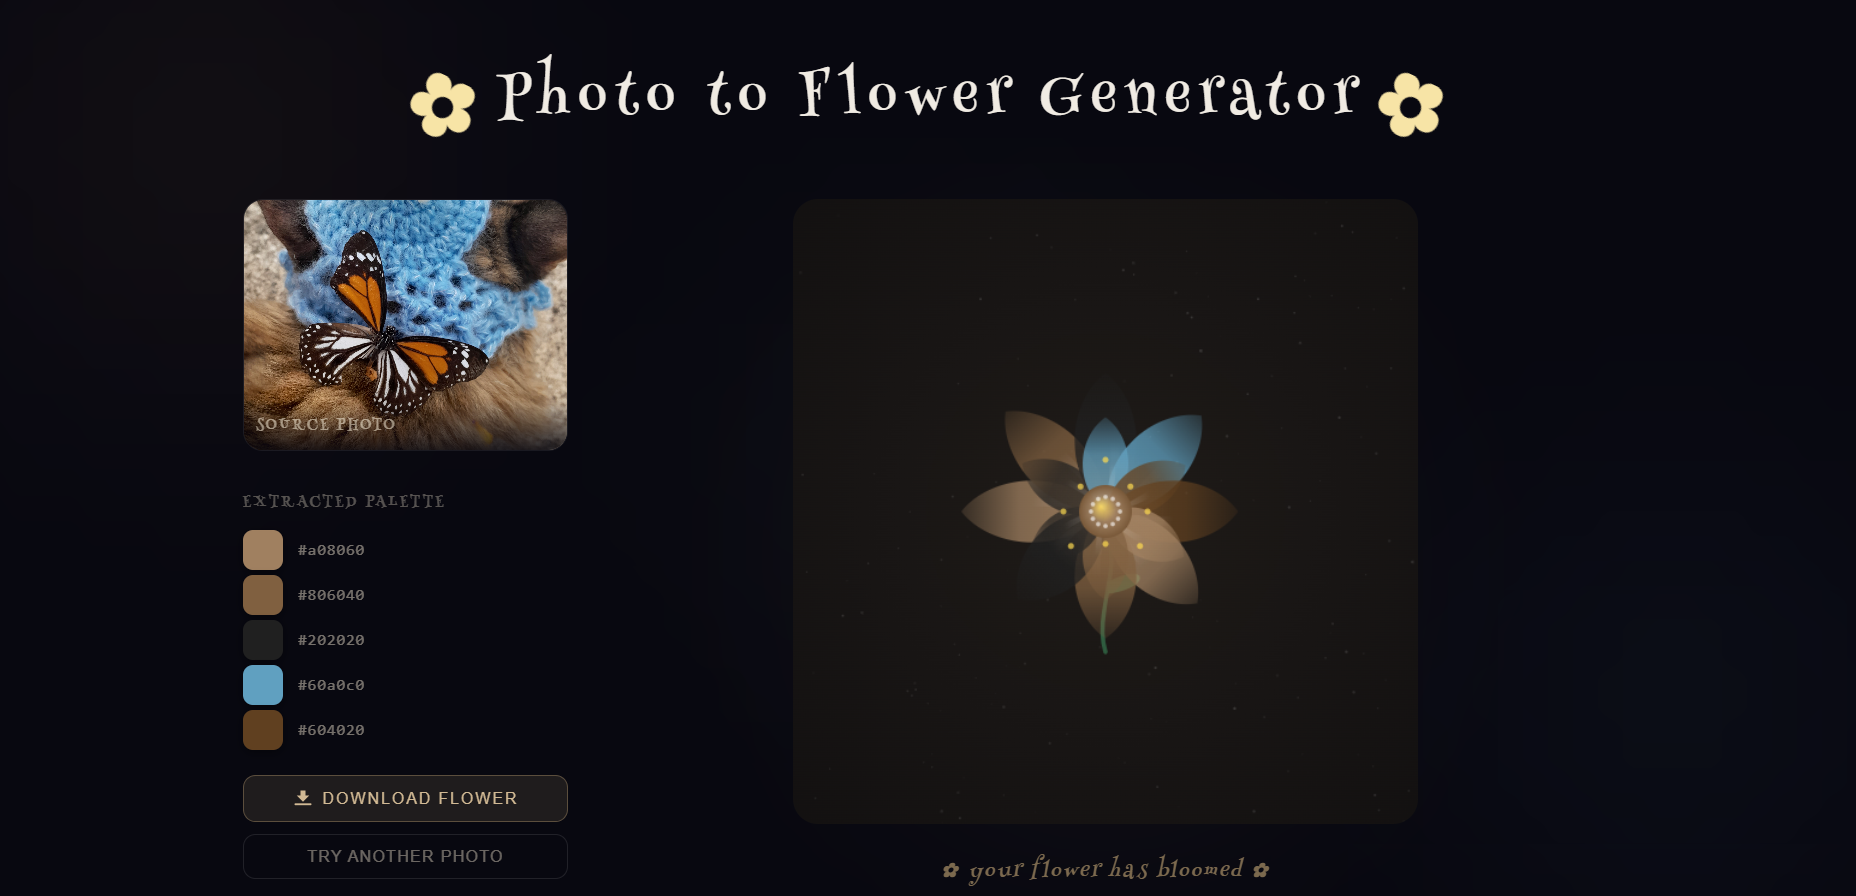
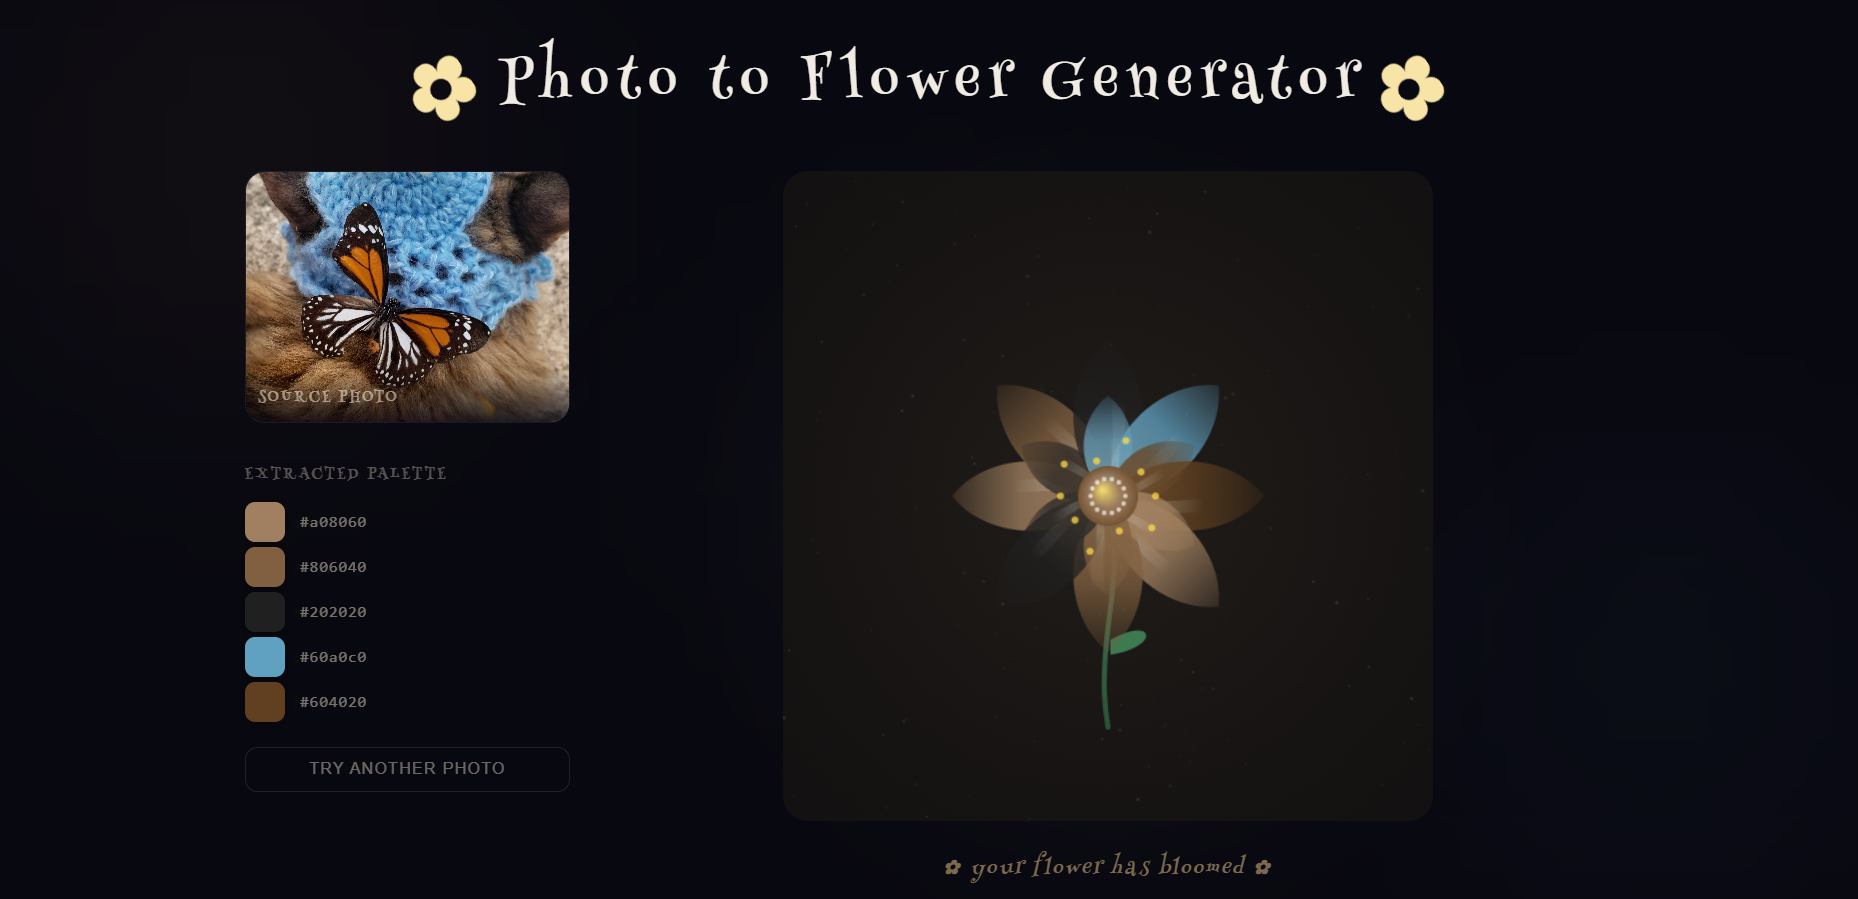
edited readme with new img

diff --git a/photo-flower/README.md b/photo-flower/README.md
@@ -8,7 +8,6 @@ Transform any photograph into a unique generative flower using its dominant colo
 - **Color Extraction** — Extracts 5 dominant colors from any uploaded image using pixel analysis with Sharp
 - **Generative Flower** — Draws a layered, animated flower on HTML Canvas using the extracted palette
 - **Bloom Animation** — Petals unfold with an eased cubic animation (1.8s)
-- **Download** — Save your flower as a PNG
 
 ## 🛠 Tech Stack
 
@@ -78,7 +77,6 @@ photo-flower/
    - **Center** with radial gradient and seed dots
    - **Pollen sparkles** that appear after bloom
 4. Petals animate open with `ease-out-cubic` over 1.8s
-5. User can download the canvas as a PNG
 
 ## 📝 Notes
 
